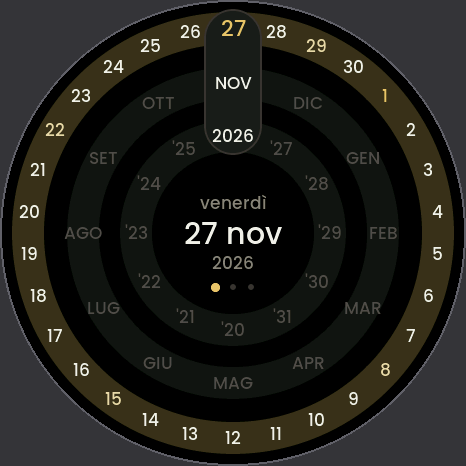
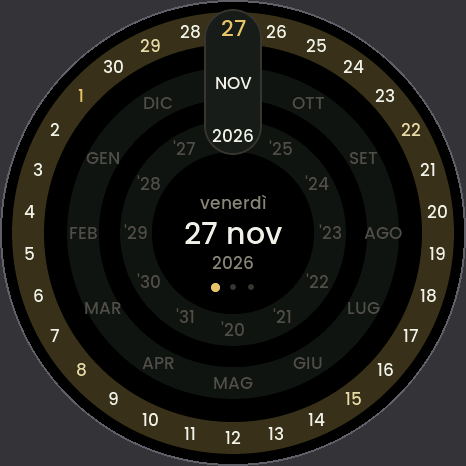
Calendar: rings turn with the bezel
Claude-Session: https://claude.ai/code/session_0144MYi1afFV4gkVhoAifbSo

diff --git a/main/apps/calendar.c b/main/apps/calendar.c
@@ -128,7 +128,9 @@ static void place_ring(int r)
             if (k > g->n / 2) k -= g->n;
             if (k < -g->n / 2) k += g->n;
         }
-        float a = -(float)M_PI / 2 + (k + g->ofs) * step;
+        // later values counter-clockwise: turning the bezel clockwise (forward) brings them to
+        // the window, so the ring turns with the finger
+        float a = -(float)M_PI / 2 - (k + g->ofs) * step;
         lv_obj_align(g->lbl[i], LV_ALIGN_CENTER, (int)lroundf(ring_r[r] * cosf(a)),
                      (int)lroundf(ring_r[r] * sinf(a)));
     }

diff --git a/CHANGELOG.md b/CHANGELOG.md
@@ -5,6 +5,10 @@ number of the published release (`0.1.<build>`).
 
 ## Next
 
+- Calendar: the rings now turn with the bezel (later days, months and years sit
+  counter-clockwise, so turning clockwise brings them to the window); before they ran the
+  other way.
+
 - Settings › Pendant › Plays: *Single media* (BOOT for the next one) or *Slideshow* (every media
   in turn, after the interval; an animation always plays to the end of a loop first). Before,
   only the gallery could switch it (tap / double tap), so the interval seemed to do nothing.
